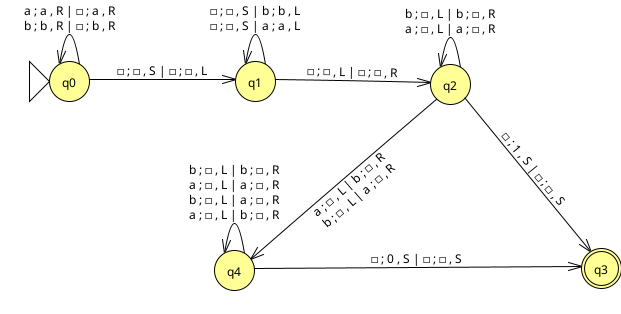
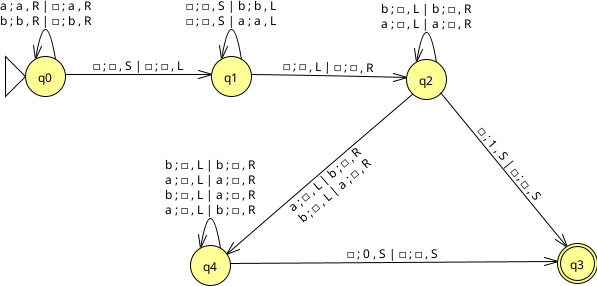
tweak report

Changed region(s): [[0.0, 0.0, 1.0, 1.0], [0.6332, 0.3916, 0.6633, 0.4196]]

diff --git a/report/parts/2.1-base1.tex b/report/parts/2.1-base1.tex
@@ -1,5 +1,9 @@
 \section{Suma de enteros en base uno}
 
+%----------
+% MT-1A
+%----------
+
 \subsection{MT Determinista de 1 cinta}
 
 \subsubsection*{Diseño propuesto}
@@ -8,14 +12,14 @@ El algoritmo de resolución es el siguiente:
 \begin{itemize}
     \item Ciclo:
     \begin{enumerate}[1.]
-        \item Comenzar desde la izquierda y desplazarse hasta el extremo derecho.
-        \item Si el último elemnto es un 1:
+        \item Desplazarse hasta el extremo derecho.
+        \item Si el elmento es un 1:
         \begin{enumerate}[1.]
             \item Borrarlo.
             \item Volver al extremo izquierdo.
-            \item Añadir un 1 en la primera posición
+            \item Añadir un 1 en la primera posición.
         \end{enumerate}
-        \item Si el último elemnto es un \$:
+        \item Si el elemnto es un \$:
         \begin{enumerate}[1.]
             \item Borrarlo.
             \item Volver al extremo izquierdo.
@@ -27,7 +31,8 @@ El algoritmo de resolución es el siguiente:
 El diseño de la máquina queda representado en la Figura \ref{fig:MT-1A}.
 
 \begin{figure}[h]
-    \includegraphics[width=\textwidth]{MT-1A.png}
+    \centering
+    \includegraphics[width=0.6\textwidth]{MT-1A.png}
     \caption{Implementación en JFLAP de MT-1A}
     \label{fig:MT-1A}
 \end{figure}
@@ -37,7 +42,7 @@ El diseño de la máquina queda representado en la Figura \ref{fig:MT-1A}.
 Dado que el formato de palabra que acepta la Máquina de Turing son dos conjuntos de 1 separados por el simbolo \$, el peor caso sería aquel en el que haya una mayor cantidad de 1 a la derecha del \$, ya que por cada 1 se requerirá una iteración para eliminarlo de la derecha y añadirlo en la izquierda, por lo que a más 1 más iteraciones serán necesarias.
 
 \subsubsection*{Evaluación empírica}
-Realizamos la evaluación empírica en el peor caso, tomando como $n$ el número de 1 a la derecha de \$, ya que se trataría del peor caso, y midiendo el número de pasos realizados para resolver el problema:
+Realizamos la evaluación empírica en el peor caso, tomando como $n$ el número de 1 a la derecha de \$, ya que se trataría del peor caso, y midiendo el número de pasos realizados para resolver el problema\footnote{Los datos se pueden encontrar en \texttt{data/MT-1A.csv}.}:
 
 \begin{table}[h]
     \centering
@@ -50,8 +55,6 @@ Realizamos la evaluación empírica en el peor caso, tomando como $n$ el número
         \$111                   & 3  & 37  \\
         \$1111                  & 4  & 56  \\
         \$11111                 & 5  & 79  \\
-        
-
     \end{tabular}
 \end{table}
 
@@ -91,31 +94,20 @@ Resolviendo, $a=0$, $b=4$ y $b=7$, por lo que:
 \end{equation}
 
 \subsubsection*{Cota asintótica}
-La cota asintótica queda defida como:
-
-\begin{equation}
-    O(n) = k \cdot g(n) \geq T(n)
-    \label{eq:On}
-\end{equation}
-
-Donde $g(n)$ representa el orden de la cota superior, en este caso $g(n) = n$.\\
-
-Al conocer $T_{0A}(n)$, si asumimos $n_0 = 10$, obtenemos $k \geq \frac{47}{10}$, por lo que la cota asintótica para esta máquina es:
+Al conocer $T_{0A}(n)$, si asumimos $n_0 = 10$, obtenemos $k \geq \frac{47}{10}$, por lo que la cota asintótica (definida en la ecuación \ref{eq:On}) para esta máquina es:
 \begin{equation}
     O_{0A}(n) = \frac{47}{10} n
 \end{equation}
 
 
 %----------
-%Sección 2
+% MT-1B
 %----------
 
 \subsection{MT Determinista de 2 cintas}
 
 \subsubsection*{Diseño propuesto}
 El algoritmo de resolución es el siguiente:
-
-
 
 \begin{itemize}
     \item Ciclo:
@@ -136,10 +128,11 @@ El algoritmo de resolución es el siguiente:
 \end{itemize}
 De esta forma la primera cinta quedaría vacía y la solución resultante de la suma quedaría en la segunda cinta\\
 
-El diseño de la máquina queda representado en la Figura \ref{fig:MT-1A}.
+El diseño de la máquina queda representado en la Figura \ref{fig:MT-1B}.
 
 \begin{figure}[h]
-    \includegraphics[width=\textwidth]{MT-1B.png}
+    \centering
+    \includegraphics[width=0.4\textwidth]{MT-1B.png}
     \caption{Implementación en JFLAP de MT-1B}
     \label{fig:MT-1B}
 \end{figure}

diff --git a/report/parts/2.0-palíndromos.tex b/report/parts/2.0-palíndromos.tex
@@ -1,5 +1,9 @@
 \section{Palíndromos}
 
+%----------
+% MT-0A
+%----------
+
 \subsection{MT Determinista de 1 cinta}
 
 \subsubsection*{Diseño propuesto}
@@ -27,7 +31,8 @@ El algoritmo de resolución es el siguiente:
 El diseño de la máquina queda representado en la Figura \ref{fig:MT-0A}.
 
 \begin{figure}[h]
-    \includegraphics[width=\textwidth]{MT-0A.png}
+    \centering
+    \includegraphics[width=0.7\textwidth]{MT-0A.png}
     \caption{Implementación en JFLAP de MT-0A}
     \label{fig:MT-0A}
 \end{figure}
@@ -37,7 +42,6 @@ El diseño de la máquina queda representado en la Figura \ref{fig:MT-0A}.
 El peor caso sería cuando es un palíndromo, dado que en el momento en el que una letra no coincida, deja de buscar el resto de letras. Dentro de los palíndromos, el peor caso es cuando es un palíndromo de tamaño par, ya que tiene que hacer una comprobación extra.
 
 \subsubsection*{Evaluación empírica}
-
 Realizamos la evaluación empírica en el peor caso, tomando como $n$ el tamaño de la palabra, y midiendo el número de pasos realizados para resolver el problema\footnote{Los datos se pueden encontrar en \texttt{data/MT-0A.csv}.}:
 
 % TODO: use CSVsimple to generate table from csv files
@@ -111,6 +115,9 @@ Al conocer $T_{0A}(n)$, si asumimos $n_0 = 10$, obtenemos $k \geq \frac{131}{50}
 % TODO: Pintar cota asintótica y coste computacional
 
 
+%----------
+% MT-0B
+%----------
 
 \subsection{MT Determinista de 2 cintas}
 
@@ -130,7 +137,8 @@ El algoritmo de resolución es el siguiente:
 El diseño de la máquina queda representado en la Figura \ref{fig:MT-0B}.
 
 \begin{figure}[h]
-    \includegraphics[width=\textwidth]{MT-0B.png}
+    \centering
+    \includegraphics[width=0.8\textwidth]{MT-0B.png}
     \caption{Implementación en JFLAP de MT-0B}
     \label{fig:MT-0B}
 \end{figure}

diff --git a/report/parts/2-desarrollo.tex b/report/parts/2-desarrollo.tex
@@ -1,7 +1,9 @@
 \part{Desarrollo}
 
 \setcounter{section}{-1}
+
 \input{parts/2.0-palíndromos.tex}
+\newpage
 \input{parts/2.1-base1.tex}
 
 \newpage

diff --git a/report/parts/0-cover.tex b/report/parts/0-cover.tex
@@ -45,7 +45,7 @@
 		
 		% proffesor
 		\begin{Large}
-		    Professor:\\
+		    Profesor:\\
 			\proffesor\\
 		\end{Large}
 
